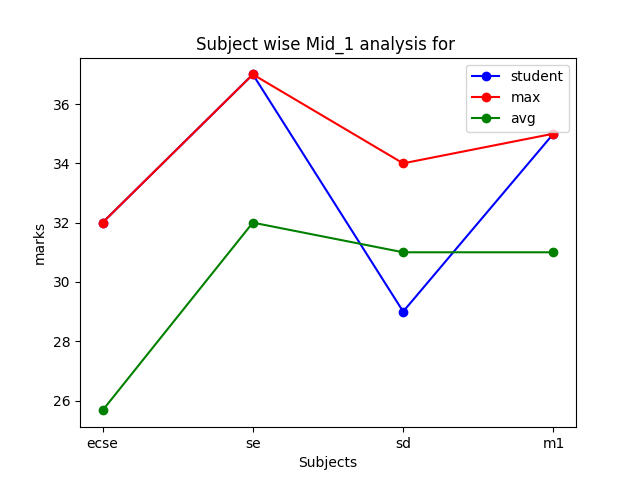
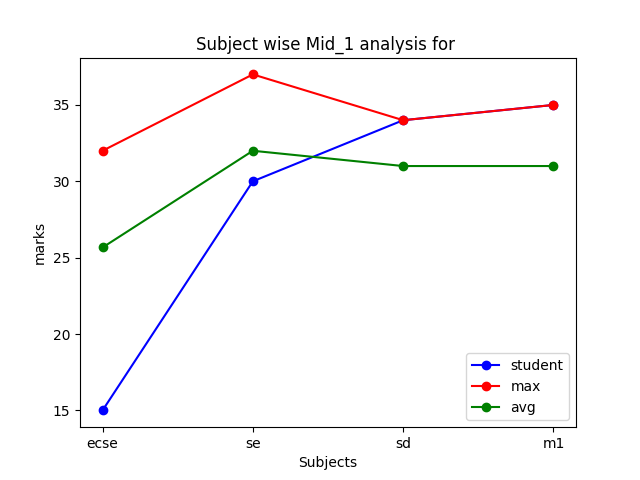
updated app.py

diff --git a/templates/performance.html b/templates/performance.html
@@ -5,6 +5,26 @@
     <meta name="viewport" content="width=device-width, initial-scale=1.0">
     <title>Overall Performance</title>
     <link href="https://cdn.jsdelivr.net/npm/bootstrap@5.3.0/dist/css/bootstrap.min.css" rel="stylesheet">
+    <style>
+        table {
+            width: 80%;
+            border-collapse: collapse;
+            margin: 20px auto;
+            font-family: Arial, sans-serif;
+        }
+        th, td {
+            border: 1px solid #ddd;
+            padding: 10px;
+            text-align: center;
+        }
+        th {
+            background-color: hsl(42, 100%, 48%);
+            color: white;
+        }
+        tr:nth-child(even) {
+            background-color: #f9f9f9;
+        }
+    </style>
 </head>
 <body class="bg-light">
     <!-- Navbar -->
@@ -29,13 +49,32 @@
         <h1 class="text-center text-secondary">Overall Performance</h1>
         <form method="POST" action="/performance">
             <div class="mb-3">
-                <input type="number" class="form-control w-25" name="target" placeholder="Enter Target Marks" required>
+                <input type="number" class="form-control w-25" name="target" placeholder="Enter Target GPA" max="10" min="6" required>
             </div>
             <button type="submit" class="btn btn-primary">Submit</button>
-            {% if mark %}
-            <p class="mt-2">You need {{ mark }} marks to reach the target!</p>
-            {% endif %}
         </form>
+    </div>
+
+    <!-- Performance Table -->
+    <div class="container mt-4">
+        <h4 class="text-center text-secondary">You Need The Following Marks Subjectwise To Reach Your Goal</h4>
+        <table>
+            <thead>
+                <tr>
+                    <th>M1</th>
+                    <th>ECSE</th>
+                    <th>SE</th>
+                    <th>SD</th>
+                </tr>
+            </thead>
+            <tbody>
+                <tr>
+                {% for i in range(length) %}
+                    <td>{{ mark[i] }}</td>
+                {% endfor %}
+                </tr>
+            </tbody>
+        </table>
     </div>
 
     <div class="container mt-4">

diff --git a/app.py b/app.py
@@ -238,7 +238,7 @@ def past_exams():
     return redirect('/logout')
 
 # Performance route
-@app.route('/performance')
+@app.route('/performance',methods=["GET","POST"])
 def performance():
     conn = sqlite3.connect('rrp.db')
     c = conn.cursor()
@@ -246,6 +246,28 @@ def performance():
         sid = session['sid']
         exams = ["MID_1","MID_2","End_Semester"]
         colors = ["skyblue","lightgreen","orange","red"]
+        variable = -1
+        length = 0
+        if(request.method == "POST"):
+            target = request.form.get("target")
+            print(target)
+            target = int(target)
+            target_marks = (target*10) - 10
+            mid_avg = []
+            req_marks = []
+            c.execute("SELECT m1, ecse, se, sd FROM MID_1 WHERE sid = ?", (session['sid'],))
+            mid1_marks = list(c.fetchone())
+            print(mid1_marks)
+            c.execute("SELECT m1, ecse, se, sd FROM MID_2 WHERE sid = ?", (session['sid'],))
+            mid2_marks = list(c.fetchone())
+            print(mid2_marks)
+            for i in range(len(mid1_marks)):
+                mid_avg.append((mid1_marks[i]+mid2_marks[i])/2)
+                req_marks.append((target_marks - mid_avg[i]))
+            print("mid_avg",mid_avg)
+            print("req_marks",req_marks)
+            length = len(req_marks)
+            variable = req_marks      
         for i in range(0,3):
             c.execute(f"SELECT ecse,se,sd,m1 from {exams[i]} where sid = ?",(session['sid'],))
             res = c.fetchone()
@@ -254,6 +276,9 @@ def performance():
             subjects = ["ecse","se","sd","m1"]
             print(res)
             plt.plot(subjects,res,color=f"{colors[i]}",marker="o",label=f"{exams[i]}")
+        plt.grid(True)
+        plt.yticks(range(0, 62,5))
+        plt.xticks(range(0,4))
         plt.title(f"Performance in each subject for {sid}!!")
         plt.xlabel("subjects")
         plt.ylabel("marks")
@@ -264,7 +289,8 @@ def performance():
         perfplotpath = os.path.join(static_dir,f"performance.png")
         plt.savefig(perfplotpath)
         plt.close()
-        return render_template("performance.html",plot = f"performance.png",mark = 10)
+
+        return render_template("performance.html",plot = f"performance.png",mark = variable,length = length)
     return redirect('/student')
 
 @app.route('/mid_1')
